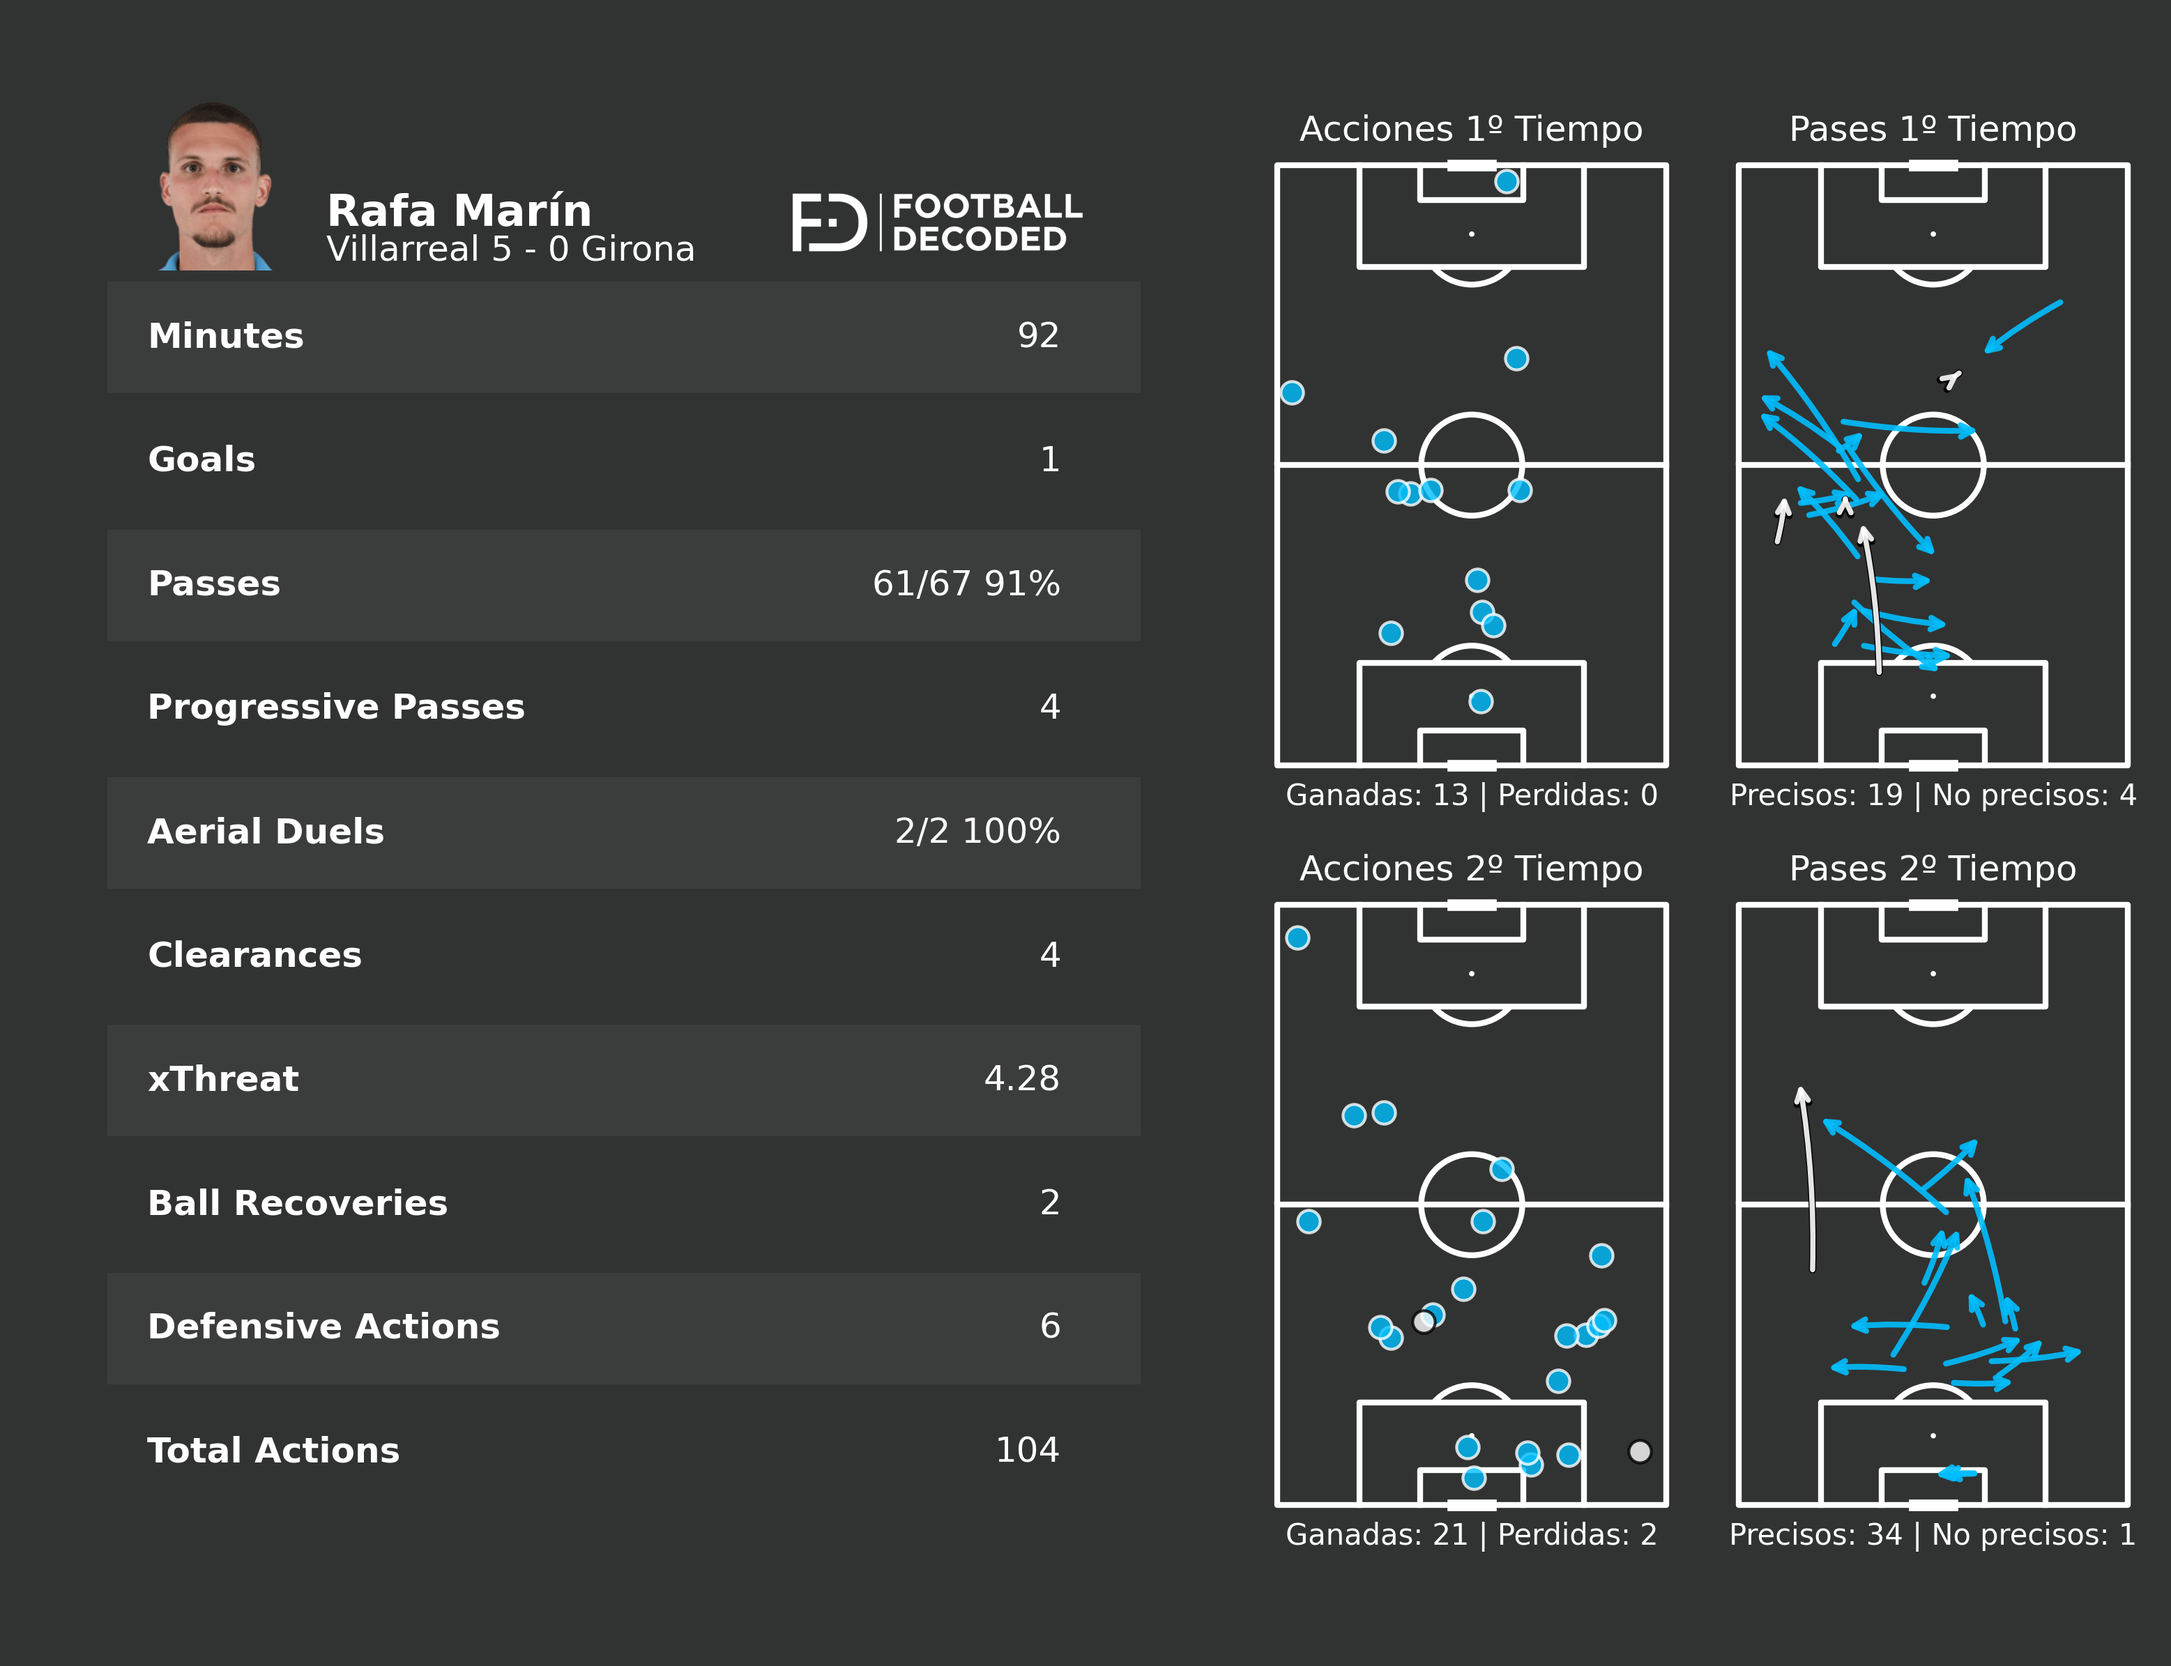
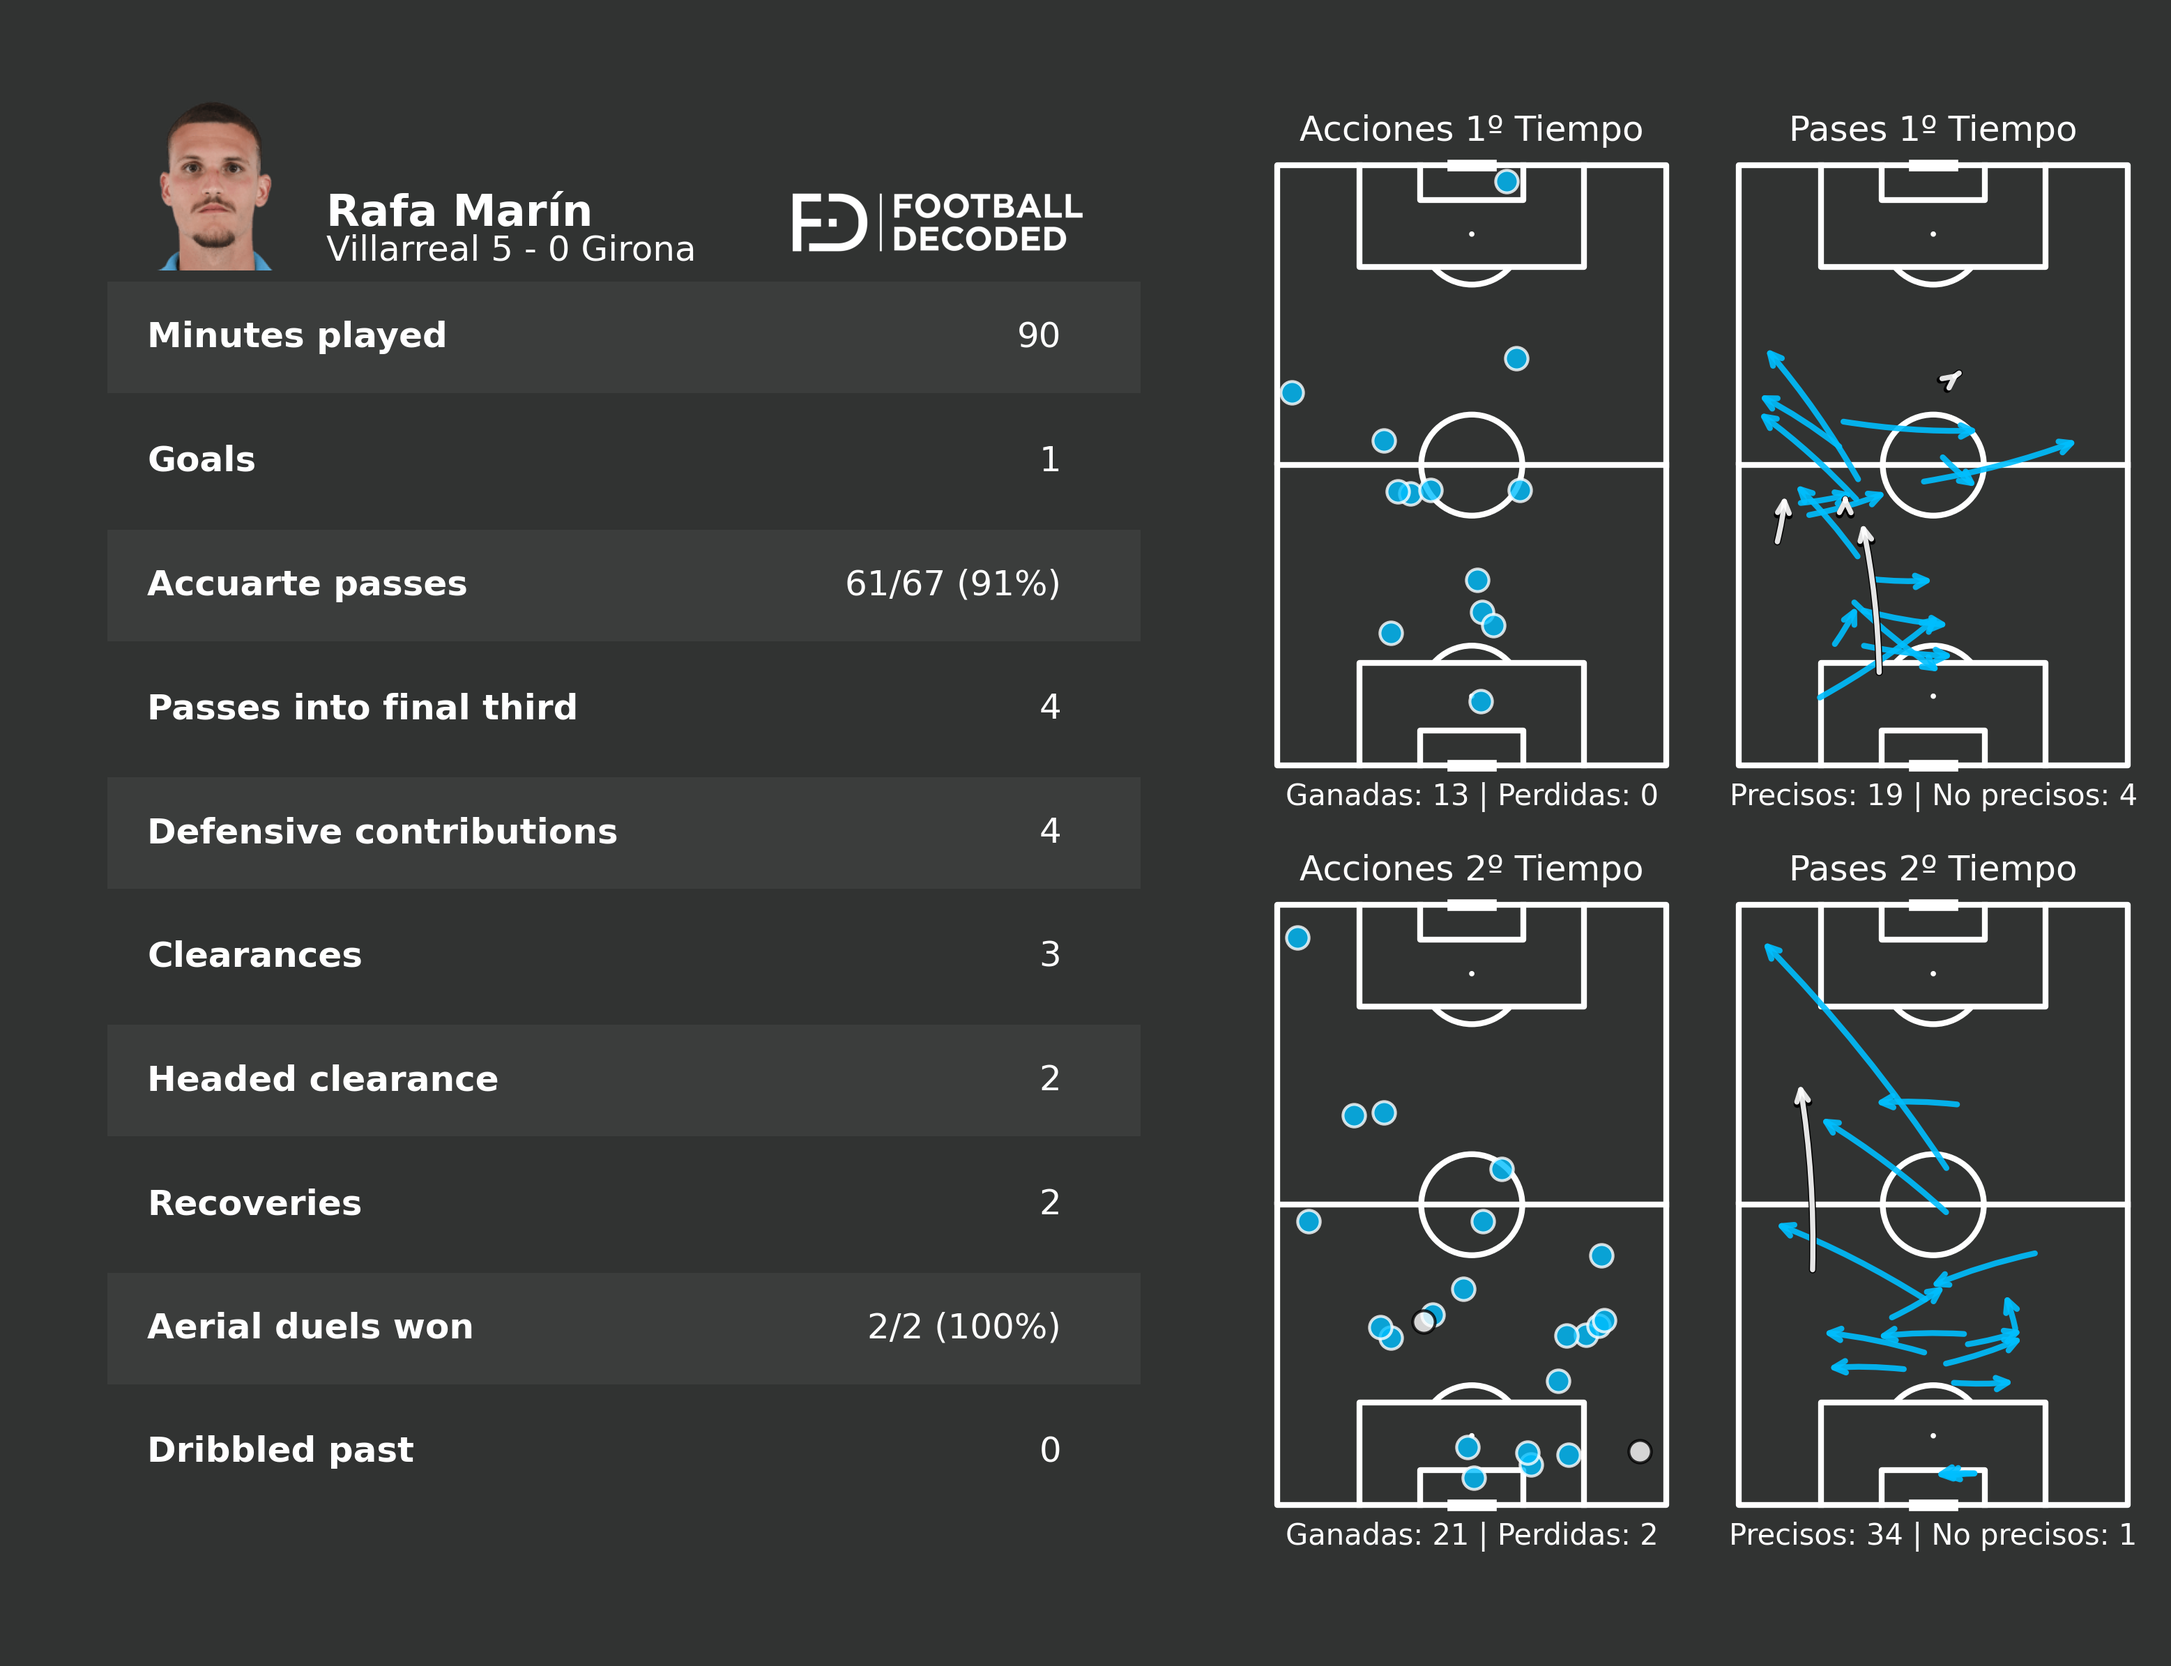
fix: prettier formatting

diff --git a/app/api/newsletter/subscribe-resend/route.ts b/app/api/newsletter/subscribe-resend/route.ts
@@ -46,7 +46,7 @@ async function checkExistingContact(
 
   try {
     const response = await listContactsWithRetry({
-      audienceId: process.env.RESEND_AUDIENCE_ID,
+      audience_id: process.env.RESEND_AUDIENCE_ID,
     })
 
     if (response.error) {
@@ -81,10 +81,10 @@ async function addContactToAudience(
 
   try {
     const response = await createContactWithRetry({
-      audienceId: process.env.RESEND_AUDIENCE_ID,
+      audience_id: process.env.RESEND_AUDIENCE_ID,
       email: email.toLowerCase(),
-      firstName: '',
-      lastName: '',
+      first_name: '',
+      last_name: '',
       unsubscribed: true,
     })
 
@@ -196,7 +196,7 @@ export async function GET() {
     }
 
     const response = await listContactsWithRetry({
-      audienceId: process.env.RESEND_AUDIENCE_ID,
+      audience_id: process.env.RESEND_AUDIENCE_ID,
     })
 
     if (response.error) {

diff --git a/app/api/newsletter/confirm-resend/route.ts b/app/api/newsletter/confirm-resend/route.ts
@@ -30,7 +30,7 @@ async function findContactByEmail(
       console.log(`[FIND] Attempt ${attempt}/${maxRetries} for ${email}`)
 
       const response = await listContactsWithRetry({
-        audienceId: process.env.RESEND_AUDIENCE_ID,
+        audience_id: process.env.RESEND_AUDIENCE_ID,
       })
 
       if (response.error) {
